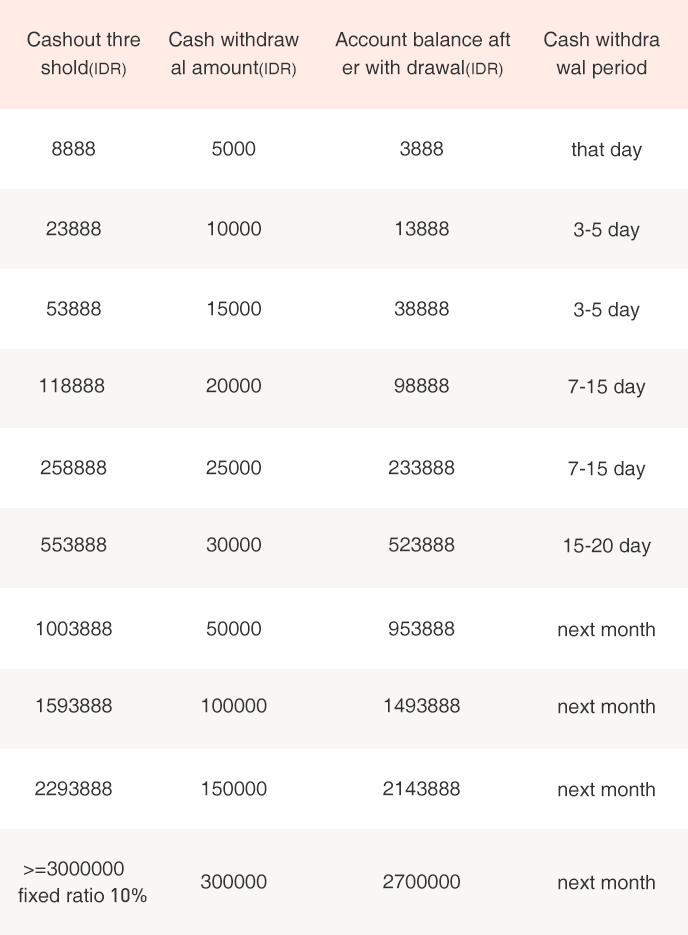
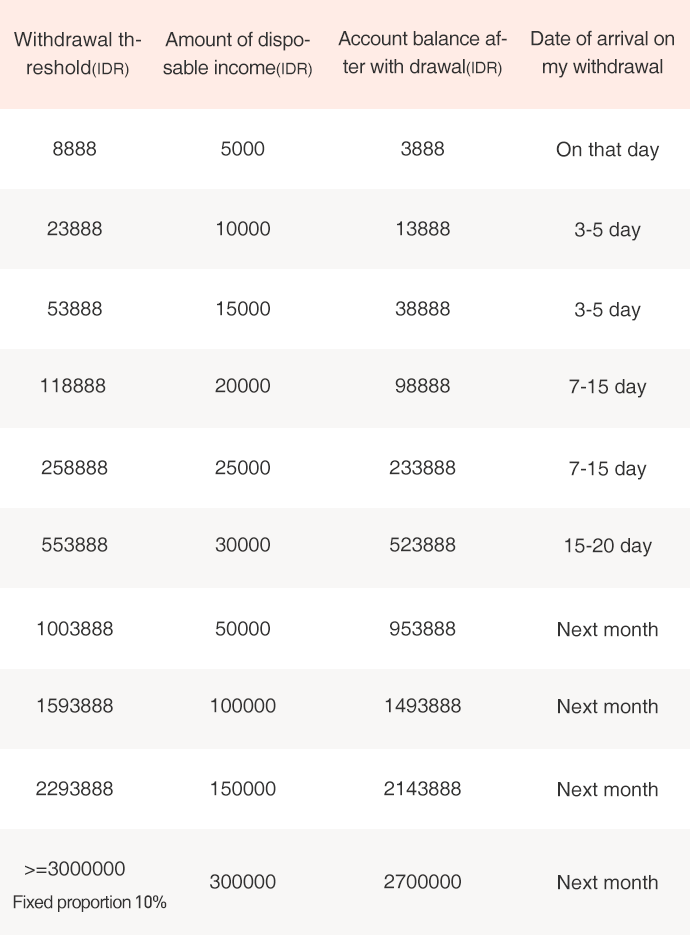
添加新手文案，更换规则图片

diff --git a/src/views/my/Tutorial.vue b/src/views/my/Tutorial.vue
@@ -6,16 +6,25 @@
         <div class="totorial-ct-tit"></div>
         <ul class="totorial-ct-ul">
           <li class="totorial-ct-li">
-            <p class="totorial-ct-li-q">Q: How many days is it shipped and how many days is it shipped?</p>
-            <p class="totorial-ct-li-a">A: Our products are about 15-20 days.</p>
+            <p class="totorial-ct-li-q">Q: How long can I receive the goods?</p>
+            <p class="totorial-ct-li-a">A: 3-15 Days.</p>
           </li>
           <li class="totorial-ct-li">
-            <p class="totorial-ct-li-q">Q: How many days is it shipped and how many days is it shipped?</p>
-            <p class="totorial-ct-li-a">A: Our products are about 15-20 days.</p>
+            <p class="totorial-ct-li-q">Q: When can I withdraw cash？</p>
+            <p class="totorial-ct-li-a"><img src="../../assets/images/withdrawRule.png"></p>
           </li>
           <li class="totorial-ct-li">
-            <p class="totorial-ct-li-q">Q: How many days is it shipped and how many days is it shipped?</p>
-            <p class="totorial-ct-li-a">A: Our products are about 15-20 days.</p>
+            <p class="totorial-ct-li-q">Q: Share & Earn</p>
+            <p class="totorial-ct-li-a">A: Invite your friends to join Istarbuy, and you will get referral bonus.
+              Sharing Istarbuy to one or multiple friends.
+              Copy & paste the invite link to your friends.
+            </p>
+          </li>
+          <li class="totorial-ct-li">
+            <p class="totorial-ct-li-q">Q: You can contact us in the way as follow</p>
+            <p class="totorial-ct-li-a">A: ① Facebook fan page: @Lovingistarbuy
+              ② LINE: Istarbuy
+              ③ WeChat: Istarbuy</p>
           </li>
         </ul>
       </div>
@@ -50,25 +59,28 @@
     background-image: url("../../assets/images/tutorial/commonProblem.png");
     background-size: 100% auto;
   }
-  .totorial-ct-ul{
+  .totorial-ct-ul {
     margin-top: 40px;
   }
-  .totorial-ct-li{
+  .totorial-ct-li {
     margin-top: 80px;
-    &:first-of-type{
+    &:first-of-type {
       margin-top: 0;
     }
   }
-  .totorial-ct-li-q{
+  .totorial-ct-li-q {
     font-size: 30px;
     color: #323232;
     line-height: 45px;
   }
-  .totorial-ct-li-a{
+  .totorial-ct-li-a {
     font-size: 30px;
     color: #888888;
     line-height: 45px;
     margin-top: 10px;
+    img{
+      width: 100%;
+    }
   }
 }
 .totorial-ct-contact {

diff --git a/src/views/withdrawRelated/withdrawImmediately.vue b/src/views/withdrawRelated/withdrawImmediately.vue
@@ -89,7 +89,7 @@
     // display: flex;
     font-size: 28px;
     font-weight: 400;
-
+    position: relative;
     .cash-withdrawal-method {
       // flex: 1;
       text-align: left;
@@ -107,6 +107,9 @@
       text-align: center;
       margin-top: 30px;
       float: right;
+      position: absolute;
+      right: 0;
+      top: 0;
     }
   }
   .play-types {
@@ -433,8 +436,7 @@
       <div class="play-box">
         <div class="top-txt">
           <div class="cash-withdrawal-method">Cash withdrawal method</div>
-          <!-- <div class="embodiment-statement"
-            @click="dialogVisible = true">Introduction</div> -->
+          <div class="embodiment-statement">Introduction</div>
         </div>
 
         <div class="play-types clearfix">
@@ -527,9 +529,9 @@
     </div>
     <div class="cash-withdrawal-rule border-bttom">
       <div class="cash-withdrawal-rule-title">Withdrawal rules</div>
-      <div class="cash-withdrawal-rule-text">
+      <!-- <div class="cash-withdrawal-rule-text">
         The balance is over 88 rounds, and 8 rounds can be withdrawn. the arrival time is the same day and over 88 rounds,The arrival time is the same day
-      </div>
+      </div> -->
       <div class="cash-withdrawal-rule-img">
         <img src="../../assets/images/withdrawRule.png">
       </div>

diff --git a/src/assets/css/init.scss b/src/assets/css/init.scss
@@ -74,6 +74,8 @@ html { overflow-y: scroll; }
 .clearfix:before,
 .clearfix:after {  display: table;  line-height: 0;  content: "";  }
 .clearfix:after {  clear: both;  }
+.left { float: left;}
+.right { float: right;}
 
 input,button,select,textarea{outline:none;border:0;}
 textarea{resize:none}

diff --git a/vue.config.js b/vue.config.js
@@ -100,7 +100,7 @@ module.exports = {
             .tap(options => Object.assign(options, { limit: 10240 }));
     },
     devServer: {
-        port: 8088,
+        port: 8099,
         disableHostCheck: true,
         proxy: {
             '/api': {
